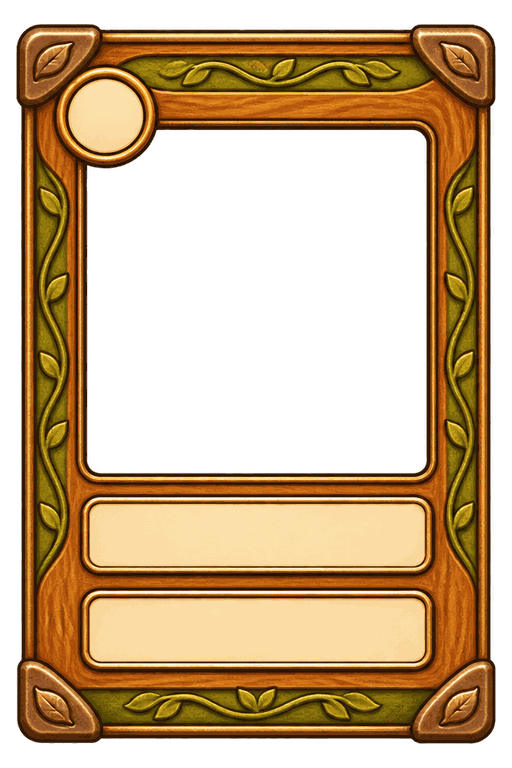
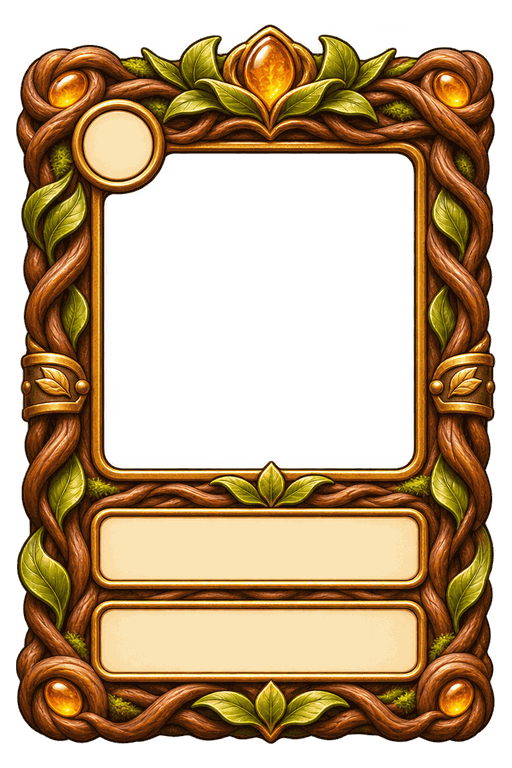
4陣営フレームを固有の立体装飾で作り直す

diff --git a/js/ui/precache.js b/js/ui/precache.js
@@ -1,2 +1,2 @@
-self.CF_CACHE_VERSION="62867b4b758d04bd";
+self.CF_CACHE_VERSION="59a6d4855ade45ad";
 self.CF_ASSETS=["index.html","manifest.webmanifest","css/accessibility.css","css/account.css","css/battle.css","css/beast.css","css/card-base.css","css/card-zoom.css","css/chat.css","css/coin-toss.css","css/components.css","css/deck.css","css/experience.css","css/finishing-art.css","css/fit.css","css/help-guide.css","css/hologram.css","css/home-tabs.css","css/home.css","css/kingdom.css","css/layout.css","css/mana-growth.css","css/materials.css","css/motion.css","css/mp.css","css/polish.css","css/rank-frames.css","css/rank-rewards.css","css/rarity-assets.css","css/rarity-fx.css","css/settings.css","css/stage.css","css/step5.css","css/style.css","css/text-fit.css","css/theme.css","css/tokens.css","css/tutorial.css","css/weather.css","js/game/Card.js","js/game/Castle.js","js/game/Elements.js","js/game/Game.js","js/game/Monster.js","js/game/Player.js","js/game/Road.js","js/game/Setup.js","js/game/Soldier.js","js/game/Stage.js","js/game/Weather.js","js/game/strategies.js","js/game/visibility.js","js/main.js","js/ui/Accessibility.js","js/ui/Account.js","js/ui/AccountPanel.js","js/ui/Animations.js","js/ui/BattleLayout.js","js/ui/Card3D.js","js/ui/CardGL.js","js/ui/CardGuide.js","js/ui/CardInfo.js","js/ui/CardRelief.js","js/ui/CardZoom.js","js/ui/ChatView.js","js/ui/CollectionView.js","js/ui/Cosmetics.js","js/ui/DebugPanel.js","js/ui/DeckEditor.js","js/ui/DeckPreview.js","js/ui/DeckStore.js","js/ui/HandView.js","js/ui/HelpView.js","js/ui/Hologram.js","js/ui/Home.js","js/ui/LocalSetup.js","js/ui/MatchStats.js","js/ui/MaterialSkin.js","js/ui/MissionView.js","js/ui/Music.js","js/ui/OnlineClient.js","js/ui/ProfileView.js","js/ui/ProgressPanel.js","js/ui/Progression.js","js/ui/RankEmblem.js","js/ui/RankRewardsView.js","js/ui/RankedView.js","js/ui/Renderer.js","js/ui/RoomView.js","js/ui/Session.js","js/ui/Settings.js","js/ui/SocialView.js","js/ui/Sound.js","js/ui/Targeting.js","js/ui/Tutorial.js","js/ui/UpgradePanel.js","js/ui/WeatherView.js","js/ui/art.js","js/ui/card-shapes.js","js/ui/cardFrame.js","js/ui/cardView.js","js/ui/config.js","js/ui/factionArt.js","js/ui/handOrder.js","js/ui/look.js","js/ui/motion.js","js/ui/musicScene.js","js/ui/pills.js","js/ui/profileArt.js","js/ui/rarity.js","js/ui/skinArt.js","js/ui/stories.js","js/ui/syncCheck.js","js/ui/text.js","js/vendor/three/BufferGeometryUtils.js","js/vendor/three/GLTFLoader.js","js/vendor/three/three.module.min.js","data/cards.json","data/castles.json","data/classic/cards.json","data/classic/elements.json","data/classic/factions/dragon.json","data/classic/factions/forest.json","data/classic/reactions.json","data/classic/rules.json","data/decks.json","data/factions/cards/demon.json","data/factions/cards/dragon.json","data/factions/cards/forest.json","data/factions/cards/kingdom.json","data/factions/elements.json","data/factions/factions.json","data/factions/reactions.json","data/factions/rules.json","data/gacha.json","data/missions.json","data/modes.json","data/monsters.json","data/profile.json","data/progression.json","data/ranks.json","data/rarities.json","data/rules.json","data/seasons.json","data/shop.json","data/stages.json","data/stamps.json","data/upgrades.json","data/weather.json","assets/asset-manifest.json","assets/bg/board-meadow-compact.png","assets/bg/board-meadow.png","assets/bg/board.png","assets/bg/home-account.png","assets/bg/home-castle.png","assets/bg/home-deck.png","assets/bg/home-gacha.png","assets/bg/home-settings.png","assets/bg/home-sky.png","assets/bg/kingdom-meadow.png","assets/bg/kingdom-valley.png","assets/bg/stage-dark-forest.png","assets/bg/stage-ice.png","assets/bg/stage-lava.png","assets/bg/stage-meadow.png","assets/bg/stage-ruins.png","assets/bg/title-compact.png","assets/bg/title.png","assets/cards/card-absolute-zero.png","assets/cards/card-adapt.png","assets/cards/card-antidote.png","assets/cards/card-apocalypse.png","assets/cards/card-apprentice-archer.png","assets/cards/card-apprentice-mage.png","assets/cards/card-archer.png","assets/cards/card-archmage.png","assets/cards/card-attack-dice.png","assets/cards/card-barrier.png","assets/cards/card-beast-bat.png","assets/cards/card-beast-demon-king.png","assets/cards/card-beast-demon.png","assets/cards/card-beast-dragon.png","assets/cards/card-beast-ghost.png","assets/cards/card-beast-goblin.png","assets/cards/card-beast-golem.png","assets/cards/card-beast-mimic.png","assets/cards/card-beast-skeleton.png","assets/cards/card-beast-slime.png","assets/cards/card-beast-treant.png","assets/cards/card-beast-vampire.png","assets/cards/card-big-shield.png","assets/cards/card-big-thunder.png","assets/cards/card-blessing.png","assets/cards/card-bolt.png","assets/cards/card-buff-dice.png","assets/cards/card-cavalry.png","assets/cards/card-coin-dice.png","assets/cards/card-death-mist.png","assets/cards/card-decoy.png","assets/cards/card-deep-freeze.png","assets/cards/card-desperate-shot.png","assets/cards/card-dragon-knight.png","assets/cards/card-earth-hammer.png","assets/cards/card-earth-king.png","assets/cards/card-earth-spirit.png","assets/cards/card-fac-demon-blood-veil.png","assets/cards/card-fac-demon-bone-shield.png","assets/cards/card-fac-demon-chaos-pulse.png","assets/cards/card-fac-demon-chaos-rod.png","assets/cards/card-fac-demon-curse-mark.png","assets/cards/card-fac-demon-curser.png","assets/cards/card-fac-demon-echo-soul.png","assets/cards/card-fac-demon-frost-blade.png","assets/cards/card-fac-demon-frost-breath.png","assets/cards/card-fac-demon-imp.png","assets/cards/card-fac-demon-poison-mist.png","assets/cards/card-fac-demon-shadow-scythe.png","assets/cards/card-fac-demon-shadow.png","assets/cards/card-fac-demon-skeleton.png","assets/cards/card-fac-demon-soul-shard.png","assets/cards/card-fac-dragon-ash-veil.png","assets/cards/card-fac-dragon-blood-drop.png","assets/cards/card-fac-dragon-bolt.png","assets/cards/card-fac-dragon-dragoon.png","assets/cards/card-fac-dragon-fang-sword.png","assets/cards/card-fac-dragon-fireball.png","assets/cards/card-fac-dragon-flame-breath.png","assets/cards/card-fac-dragon-flame-whelp.png","assets/cards/card-fac-dragon-recruit.png","assets/cards/card-fac-dragon-thunder-spear.png","assets/cards/card-fac-dragon-thunder-whelp.png","assets/cards/card-fac-dragon-whelp-scale.png","assets/cards/card-fac-forest-bark-shield.png","assets/cards/card-fac-forest-beastman.png","assets/cards/card-fac-forest-druid.png","assets/cards/card-fac-forest-earth-spirit.png","assets/cards/card-fac-forest-elf.png","assets/cards/card-fac-forest-fire-bolt.png","assets/cards/card-fac-forest-fire-spirit.png","assets/cards/card-fac-forest-fissure.png","assets/cards/card-fac-forest-gust.png","assets/cards/card-fac-forest-life-drop.png","assets/cards/card-fac-forest-thorn-wall.png","assets/cards/card-fac-forest-water-spirit.png","assets/cards/card-fac-forest-water-stream.png","assets/cards/card-fac-forest-wind-spirit.png","assets/cards/card-fac-king-archer.png","assets/cards/card-fac-king-cavalry.png","assets/cards/card-fac-king-decoy.png","assets/cards/card-fac-king-heal.png","assets/cards/card-fac-king-heavy.png","assets/cards/card-fac-king-holy-ray.png","assets/cards/card-fac-king-holy-sword.png","assets/cards/card-fac-king-infantry.png","assets/cards/card-fac-king-lumina-lance.png","assets/cards/card-fac-king-lumina.png","assets/cards/card-fac-king-minor-heal.png","assets/cards/card-fac-king-priest.png","assets/cards/card-fac-king-purify.png","assets/cards/card-fac-king-shield.png","assets/cards/card-fac-king-wall.png","assets/cards/card-fire-king.png","assets/cards/card-fire-spirit.png","assets/cards/card-fireball.png","assets/cards/card-flame-sword.png","assets/cards/card-frost-breath.png","assets/cards/card-frozen-world.png","assets/cards/card-gate.png","assets/cards/card-giant.png","assets/cards/card-glacier.png","assets/cards/card-god-dice.png","assets/cards/card-god-shield.png","assets/cards/card-god-sword.png","assets/cards/card-goddess.png","assets/cards/card-gold-vein.png","assets/cards/card-great-earth-spirit.png","assets/cards/card-great-fire-spirit.png","assets/cards/card-great-heal.png","assets/cards/card-great-water-spirit.png","assets/cards/card-great-wind-spirit.png","assets/cards/card-heal-dice.png","assets/cards/card-heal.png","assets/cards/card-heavy.png","assets/cards/card-hero.png","assets/cards/card-holy-light.png","assets/cards/card-holy-shield.png","assets/cards/card-holy-sword.png","assets/cards/card-infantry.png","assets/cards/card-inferno.png","assets/cards/card-iron-sword.png","assets/cards/card-judgment.png","assets/cards/card-king-treasure.png","assets/cards/card-knight.png","assets/cards/card-life-steal.png","assets/cards/card-longbowman.png","assets/cards/card-mage.png","assets/cards/card-magic-sword.png","assets/cards/card-mana-crystal.png","assets/cards/card-mana-dice.png","assets/cards/card-mana-drop.png","assets/cards/card-mana-raid.png","assets/cards/card-mana-shard.png","assets/cards/card-mana-spring.png","assets/cards/card-meteor.png","assets/cards/card-minor-heal.png","assets/cards/card-paladin.png","assets/cards/card-plague.png","assets/cards/card-poison-mist.png","assets/cards/card-powder-keg.png","assets/cards/card-raijin.png","assets/cards/card-random-dice.png","assets/cards/card-reflect.png","assets/cards/card-sage.png","assets/cards/card-sandbag.png","assets/cards/card-scout.png","assets/cards/card-shield-dice.png","assets/cards/card-shield.png","assets/cards/card-sky-archer.png","assets/cards/card-sniper.png","assets/cards/card-sorcerer.png","assets/cards/card-spearman.png","assets/cards/card-starfall.png","assets/cards/card-steel-shield.png","assets/cards/card-stone-wall.png","assets/cards/card-thief.png","assets/cards/card-thunder.png","assets/cards/card-toxic-rain.png","assets/cards/card-treasure.png","assets/cards/card-venom.png","assets/cards/card-wall.png","assets/cards/card-water-king.png","assets/cards/card-water-spear.png","assets/cards/card-water-spirit.png","assets/cards/card-weather-call.png","assets/cards/card-wind-bow.png","assets/cards/card-wind-king.png","assets/cards/card-wind-spirit.png","assets/cards/card-world-tree-dew.png","assets/cards/frame-beast.png","assets/cards/frame-common.png","assets/cards/frame-epic.png","assets/cards/frame-faction-demon.png","assets/cards/frame-faction-dragon.png","assets/cards/frame-faction-forest.png","assets/cards/frame-faction-kingdom.png","assets/cards/frame-legendary.png","assets/cards/frame-rare.png","assets/cards/frame-skin-bronze.png","assets/cards/frame-skin-champion.png","assets/cards/frame-skin-diamond.png","assets/cards/frame-skin-gold.png","assets/cards/frame-skin-iron.png","assets/cards/frame-skin-master.png","assets/cards/frame-skin-platinum.png","assets/cards/frame-skin-silver.png","assets/cards/frame-special.png","assets/cards/frame-uncommon.png","assets/cards/relief/frame-beast-raised.png","assets/cards/relief/frame-beast-relief.png","assets/cards/relief/frame-common-raised.png","assets/cards/relief/frame-common-relief.png","assets/cards/relief/frame-epic-raised.png","assets/cards/relief/frame-epic-relief.png","assets/cards/relief/frame-legendary-raised.png","assets/cards/relief/frame-legendary-relief.png","assets/cards/relief/frame-rare-raised.png","assets/cards/relief/frame-rare-relief.png","assets/cards/relief/frame-skin-bronze-raised.png","assets/cards/relief/frame-skin-bronze-relief.png","assets/cards/relief/frame-skin-champion-raised.png","assets/cards/relief/frame-skin-champion-relief.png","assets/cards/relief/frame-skin-diamond-raised.png","assets/cards/relief/frame-skin-diamond-relief.png","assets/cards/relief/frame-skin-gold-raised.png","assets/cards/relief/frame-skin-gold-relief.png","assets/cards/relief/frame-skin-iron-raised.png","assets/cards/relief/frame-skin-iron-relief.png","assets/cards/relief/frame-skin-master-raised.png","assets/cards/relief/frame-skin-master-relief.png","assets/cards/relief/frame-skin-platinum-raised.png","assets/cards/relief/frame-skin-platinum-relief.png","assets/cards/relief/frame-skin-silver-raised.png","assets/cards/relief/frame-skin-silver-relief.png","assets/cards/relief/frame-special-raised.png","assets/cards/relief/frame-special-relief.png","assets/cards/relief/frame-uncommon-raised.png","assets/cards/relief/frame-uncommon-relief.png","assets/cards/window-beast.png","assets/cards/window-common.png","assets/cards/window-epic.png","assets/cards/window-legendary.png","assets/cards/window-rare.png","assets/cards/window-special.png","assets/cards/window-uncommon.png","assets/castles/barracks-blue-damaged-1.png","assets/castles/barracks-blue-damaged-2.png","assets/castles/barracks-blue-damaged-3.png","assets/castles/barracks-blue.png","assets/castles/barracks-orange-damaged-1.png","assets/castles/barracks-orange-damaged-2.png","assets/castles/barracks-orange-damaged-3.png","assets/castles/barracks-orange.png","assets/castles/castle-blue-damaged-1.png","assets/castles/castle-blue-damaged-2.png","assets/castles/castle-blue-damaged-3.png","assets/castles/castle-blue-ruined.png","assets/castles/castle-blue.png","assets/castles/castle-orange-damaged-1.png","assets/castles/castle-orange-damaged-2.png","assets/castles/castle-orange-damaged-3.png","assets/castles/castle-orange-ruined.png","assets/castles/castle-orange.png","assets/castles/fortress-blue-damaged-1.png","assets/castles/fortress-blue-damaged-2.png","assets/castles/fortress-blue-damaged-3.png","assets/castles/fortress-blue.png","assets/castles/fortress-orange-damaged-1.png","assets/castles/fortress-orange-damaged-2.png","assets/castles/fortress-orange-damaged-3.png","assets/castles/fortress-orange.png","assets/castles/tower-blue-damaged-1.png","assets/castles/tower-blue-damaged-2.png","assets/castles/tower-blue-damaged-3.png","assets/castles/tower-blue.png","assets/castles/tower-orange-damaged-1.png","assets/castles/tower-orange-damaged-2.png","assets/castles/tower-orange-damaged-3.png","assets/castles/tower-orange.png","assets/frames/edge-faction-demon.png","assets/frames/edge-faction-dragon.png","assets/frames/edge-faction-forest.png","assets/frames/edge-faction-kingdom.png","assets/frames/factions.json","assets/frames/rank-frame-bronze.png","assets/frames/rank-frame-champion.png","assets/frames/rank-frame-diamond.png","assets/frames/rank-frame-gold.png","assets/frames/rank-frame-iron.png","assets/frames/rank-frame-master.png","assets/frames/rank-frame-platinum.png","assets/frames/rank-frame-silver.png","assets/fx/dust.png","assets/fx/evolve-1.png","assets/fx/evolve-2.png","assets/fx/evolve-3.png","assets/fx/explosion.png","assets/fx/fireball.png","assets/fx/fusion.png","assets/fx/heal.png","assets/fx/ice.png","assets/fx/lightning.png","assets/fx/lucky-reward.png","assets/fx/poison.png","assets/models/card-beast.glb","assets/models/card-common.glb","assets/models/card-epic.glb","assets/models/card-legendary.glb","assets/models/card-rare.glb","assets/models/card-skin-champion.glb","assets/models/card-skin-diamond.glb","assets/models/card-skin-master.glb","assets/models/card-skin-platinum.glb","assets/models/card-slab.glb","assets/models/card-special.glb","assets/models/card-uncommon.glb","assets/models/rank-emblem-champion.glb","assets/models/rank-emblem-diamond.glb","assets/models/rank-emblem-master.glb","assets/models/rank-emblem-platinum.glb","assets/profiles/archer.png","assets/profiles/hero.png","assets/profiles/infantry.png","assets/profiles/knight.png","assets/profiles/mage.png","assets/profiles/spearman.png","assets/ranks/rank-bronze.png","assets/ranks/rank-champion.png","assets/ranks/rank-diamond.png","assets/ranks/rank-gold.png","assets/ranks/rank-iron.png","assets/ranks/rank-master.png","assets/ranks/rank-platinum.png","assets/ranks/rank-silver.png","assets/skins/back-crimson-raised.png","assets/skins/back-crimson.png","assets/skins/back-faction-demon.png","assets/skins/back-faction-dragon.png","assets/skins/back-faction-forest.png","assets/skins/back-faction-kingdom.png","assets/skins/back-forest-raised.png","assets/skins/back-forest.png","assets/skins/back-gold-raised.png","assets/skins/back-gold.png","assets/skins/back-rank-bronze-raised.png","assets/skins/back-rank-bronze-relief.png","assets/skins/back-rank-bronze.png","assets/skins/back-rank-champion-raised.png","assets/skins/back-rank-champion-relief.png","assets/skins/back-rank-champion.png","assets/skins/back-rank-diamond-raised.png","assets/skins/back-rank-diamond-relief.png","assets/skins/back-rank-diamond.png","assets/skins/back-rank-gold-raised.png","assets/skins/back-rank-gold-relief.png","assets/skins/back-rank-gold.png","assets/skins/back-rank-iron-raised.png","assets/skins/back-rank-iron-relief.png","assets/skins/back-rank-iron.png","assets/skins/back-rank-master-raised.png","assets/skins/back-rank-master-relief.png","assets/skins/back-rank-master.png","assets/skins/back-rank-platinum-raised.png","assets/skins/back-rank-platinum-relief.png","assets/skins/back-rank-platinum.png","assets/skins/back-rank-silver-raised.png","assets/skins/back-rank-silver-relief.png","assets/skins/back-rank-silver.png","assets/skins/back-royal-raised.png","assets/skins/back-royal.png","assets/skins/castle-crimson.png","assets/skins/castle-forest.png","assets/skins/castle-frost.png","assets/skins/castle-gold.png","assets/skins/castle-shadow.png","assets/skins/fx-azure.png","assets/skins/fx-emerald.png","assets/skins/fx-gold.png","assets/skins/fx-violet.png","assets/skins/icon-dragon-knight.png","assets/skins/icon-giant.png","assets/skins/icon-paladin.png","assets/skins/icon-sage.png","assets/skins/icon-scout.png","assets/skins/icon-sniper.png","assets/skins/title-hunter.png","assets/skins/title-legend.png","assets/skins/title-lucky.png","assets/skins/title-rookie.png","assets/skins/title-wall.png","assets/skins/unit-crimson.png","assets/skins/unit-forest.png","assets/skins/unit-frost.png","assets/skins/unit-gold.png","assets/skins/unit-royal.png","assets/skins/unit-shadow.png","assets/skins/win-aurora.png","assets/skins/win-gold.png","assets/skins/win-sakura.png","assets/ui/app-icon-192.png","assets/ui/app-icon-512.png","assets/ui/app-icon-maskable-512.png","assets/ui/apple-touch-icon.png","assets/ui/banner-win.png","assets/ui/btn-blue.png","assets/ui/btn-cream.png","assets/ui/btn-green.png","assets/ui/btn-orange.png","assets/ui/btn-red.png","assets/ui/btn-round.png","assets/ui/button-end-turn.png","assets/ui/card-back.png","assets/ui/home/casual.png","assets/ui/home/catalog.png","assets/ui/home/deck.png","assets/ui/home/friend.png","assets/ui/home/gacha.png","assets/ui/home/mission.png","assets/ui/home/profile.png","assets/ui/home/rank.png","assets/ui/home/ranking.png","assets/ui/home/settings.png","assets/ui/home/shop.png","assets/ui/home/skin.png","assets/ui/icon-coin.png","assets/ui/icon-earth.png","assets/ui/icon-fire.png","assets/ui/icon-heart.png","assets/ui/icon-help.png","assets/ui/icon-kind-defense.png","assets/ui/icon-kind-soldier.png","assets/ui/icon-kind-spell.png","assets/ui/icon-kind-weapon.png","assets/ui/icon-kind-wild.png","assets/ui/icon-luck.png","assets/ui/icon-mode-local.png","assets/ui/icon-mode-online.png","assets/ui/icon-mode-solo.png","assets/ui/icon-mp.png","assets/ui/icon-rarity-common.png","assets/ui/icon-rarity-epic.png","assets/ui/icon-rarity-legendary.png","assets/ui/icon-rarity-rare.png","assets/ui/icon-rarity-special.png","assets/ui/icon-rarity-uncommon.png","assets/ui/icon-water.png","assets/ui/icon-wind.png","assets/ui/kingdom-crest.png","assets/ui/kingdom-parchment.png","assets/ui/kingdom-platform.png","assets/ui/kingdom-primary.png","assets/ui/kingdom-secondary.png","assets/ui/kingdom-wood.png","assets/ui/logo.png","assets/ui/natural/danger-40-left.png","assets/ui/natural/danger-40-middle.png","assets/ui/natural/danger-40-right.png","assets/ui/natural/danger-44-left.png","assets/ui/natural/danger-44-middle.png","assets/ui/natural/danger-44-right.png","assets/ui/natural/danger-72-left.png","assets/ui/natural/danger-72-middle.png","assets/ui/natural/danger-72-right.png","assets/ui/natural/frame.png","assets/ui/natural/leather-tile.png","assets/ui/natural/neutral-40-left.png","assets/ui/natural/neutral-40-middle.png","assets/ui/natural/neutral-40-right.png","assets/ui/natural/neutral-44-left.png","assets/ui/natural/neutral-44-middle.png","assets/ui/natural/neutral-44-right.png","assets/ui/natural/neutral-72-left.png","assets/ui/natural/neutral-72-middle.png","assets/ui/natural/neutral-72-right.png","assets/ui/natural/neutral-wide-full.png","assets/ui/natural/oak-tile.png","assets/ui/natural/paper-tile.png","assets/ui/natural/primary-40-left.png","assets/ui/natural/primary-40-middle.png","assets/ui/natural/primary-40-right.png","assets/ui/natural/primary-44-left.png","assets/ui/natural/primary-44-middle.png","assets/ui/natural/primary-44-right.png","assets/ui/natural/primary-72-left.png","assets/ui/natural/primary-72-middle.png","assets/ui/natural/primary-72-right.png","assets/ui/natural/primary-wide-full.png","assets/ui/natural/round-neutral.png","assets/ui/natural/round-selected.png","assets/ui/natural/selected-40-left.png","assets/ui/natural/selected-40-middle.png","assets/ui/natural/selected-40-right.png","assets/ui/natural/selected-44-left.png","assets/ui/natural/selected-44-middle.png","assets/ui/natural/selected-44-right.png","assets/ui/natural/selected-72-left.png","assets/ui/natural/selected-72-middle.png","assets/ui/natural/selected-72-right.png","assets/ui/panel-parchment.png","assets/ui/result-defeat.png","assets/ui/result-victory.png","assets/ui/sign-hp.png","assets/ui/stamps/again.png","assets/ui/stamps/gg.png","assets/ui/stamps/go.png","assets/ui/stamps/hello.png","assets/ui/stamps/nice.png","assets/ui/stamps/ouch.png","assets/ui/stamps/scared.png","assets/ui/stamps/smug.png","assets/ui/stamps/sorry.png","assets/ui/stamps/thanks.png","assets/ui/stamps/think.png","assets/ui/stamps/yay.png","assets/ui/tap-plate.png","assets/ui/title-castle-blue.png","assets/ui/title-castle-orange.png","assets/ui/title-infantry-orange.png","assets/ui/title-knight-blue.png","assets/ui/weather-coin-rain.png","assets/ui/weather-fog.png","assets/ui/weather-heavy-rain.png","assets/ui/weather-rain.png","assets/ui/weather-sandstorm.png","assets/ui/weather-storm.png","assets/ui/weather-sunny.png","assets/units/apprentice-archer-blue.png","assets/units/apprentice-archer-orange.png","assets/units/apprentice-mage-blue.png","assets/units/apprentice-mage-orange.png","assets/units/archer-blue.png","assets/units/archer-orange.png","assets/units/archmage-blue.png","assets/units/archmage-orange.png","assets/units/cavalry-blue.png","assets/units/cavalry-orange.png","assets/units/dragon-knight-blue.png","assets/units/dragon-knight-orange.png","assets/units/earth-spirit.png","assets/units/fire-spirit.png","assets/units/giant-blue.png","assets/units/giant-orange.png","assets/units/great-earth-spirit.png","assets/units/great-fire-spirit.png","assets/units/great-water-spirit.png","assets/units/great-wind-spirit.png","assets/units/heavy-blue.png","assets/units/heavy-orange.png","assets/units/hero-blue.png","assets/units/hero-orange.png","assets/units/infantry-blue.png","assets/units/infantry-orange.png","assets/units/knight-blue.png","assets/units/knight-orange.png","assets/units/longbowman-blue.png","assets/units/longbowman-orange.png","assets/units/mage-blue.png","assets/units/mage-orange.png","assets/units/monster-bat.png","assets/units/monster-demon-king.png","assets/units/monster-demon.png","assets/units/monster-dragon.png","assets/units/monster-ghost.png","assets/units/monster-goblin.png","assets/units/monster-golem.png","assets/units/monster-mimic.png","assets/units/monster-skeleton.png","assets/units/monster-slime.png","assets/units/monster-treant.png","assets/units/monster-vampire.png","assets/units/paladin-blue.png","assets/units/paladin-orange.png","assets/units/sage-blue.png","assets/units/sage-orange.png","assets/units/scout-blue.png","assets/units/scout-orange.png","assets/units/sky-archer-blue.png","assets/units/sky-archer-orange.png","assets/units/sniper-blue.png","assets/units/sniper-orange.png","assets/units/sorcerer-blue.png","assets/units/sorcerer-orange.png","assets/units/spearman-blue.png","assets/units/spearman-orange.png","assets/units/water-spirit.png","assets/units/wind-spirit.png"];

diff --git a/assets/review/faction-frames/index.html b/assets/review/faction-frames/index.html
@@ -3,7 +3,7 @@
 <h1>4陣営の表・側面・裏</h1><p>同じ縮尺で表示。共通外形64×96mm、本体厚3.52mm。<a href="construction.svg">寸法・接続ガイド</a> ／ <a href="README.md">Blender向け仕様</a></p><main></main>
 <script type="module">
 const root=new URL('../../../',location.href);const d=await(await fetch(new URL('assets/frames/factions.json',root))).json();
-const labels={kingdom:'王国：銀と青',forest:'森の同盟：木と緑',demon:'魔族軍：黒鉄と紫',dragon:'竜族帝国：銅と赤'};
+const labels={kingdom:'王国：銀翼と王冠',forest:'森の同盟：編み根と琥珀',demon:'魔族軍：黒鉄と骨',dragon:'竜族帝国：鱗と爪'};
 for(const id of ['kingdom','forest','demon','dragon']){const f=d.factions[id],a=document.createElement('article');a.innerHTML=`<h2>${labels[id]}</h2><div class="views"><img class="face" alt="表" src="${new URL('assets/'+f.views.front,root)}"><img class="edge" alt="右側面" src="${new URL('assets/'+f.views.edge,root)}"><img class="face" alt="裏" src="${new URL('assets/'+f.views.back,root)}"></div><div class="labels"><span>表</span><span>右側面</span><span>裏</span></div>`;document.querySelector('main').append(a)}
 await Promise.all([...document.images].map(i=>i.decode()));document.documentElement.dataset.ready='true';
 </script></html>

diff --git a/assets/review/faction-frames/README.md b/assets/review/faction-frames/README.md
@@ -1,6 +1,6 @@
 # 4陣営カードの表・側面・裏
 
-既存の `frame-common.png` / `frame-rare.png` を絵柄・文字欄の参考にし、4陣営とも表・側面・裏を1枚の三面図として生成。外形から大きな飾りをはみ出させず、縁材と四隅の留め具が回り込む構造にした。王国は銀と青、森は木と緑・青銅、魔族は黒鉄と紫・骨、竜は銅と赤・浅い鱗模様。キャラクターの絵は入れない。
+既存の `frame-legendary.png` の立体感・磨かれた素材・装飾密度を参考に、4陣営の表・側面・裏を同時に生成。王国は銀翼・王冠・青い宝石、森は編み根・琥珀・生命樹、魔族は黒鉄・骨の角・紫水晶、竜は重なる鱗・爪・紅玉。表の枠自体に陣営固有の造形を持たせ、裏面にも大きなレリーフを置いた。キャラクターの絵は入れない。
 
 ## ファイル
 
@@ -17,10 +17,10 @@
 数値と共通外形は `factions.json` / `construction.svg` を正とする。幅64mm・高さ96mm・本体厚3.52mm（既存UIの厚み/幅0.055）、角半径3mm、面取り0.6mm。実寸を変える場合は全寸法を同じ倍率で変更する。
 
 1. **表裏共通の板を1枚作る。** 表用と裏用の別々の外周メッシュを画像の輪郭から作らない。原画には生成上の小さな差があるため、共通の角丸長方形で揃える。
-2. **縁を連続した一周の構造にする。** Z=-1.76〜-1.36mmが裏の金属レール、-1.36〜+1.36mmが芯材、+1.36〜+1.76mmが表の金属レール。芯材は王国・森が木、魔族が紫、竜が赤。側面には細かい図柄を渡さず、材料の帯を連続させる。
-3. **四隅の留め具を表裏共有の部品にする。** 中心はX=±27mm、Y=±43mm、10×10mm、Z=-2.1〜+2.1mm。角の丸みに沿わせる。正面だけの薄い金具を別々に貼る構造にしない。
-4. **表の絵・名前・説明を凹ませる。** PNGの透明な絵窓は合成用。実物を表裏へ貫通させず、絵の受け面をZ=+1.0mmに置く。安全な共通の絵領域は左11mm・上15.5mm・42×42mm。名前と説明はJSONのfrontInsetsを参照。
-5. **模様は面の内側で止める。** 表の紋章・骨のインレイ・葉・鱗は+0.9mm以内、裏の中央紋章は裏面から0.8mm以内の浅いレリーフを目安にする。既存の陰影をそのまま立体の段差に変換しない。
+2. **縁を連続した一周の構造にする。** Z=-1.76〜-1.36mmが裏の金属レール、-1.36〜+1.36mmが芯材、+1.36〜+1.76mmが表の金属レール。芯材は王国が青いエナメル、森が編み根と木、魔族が紫の黒鉄、竜が赤い鱗。表裏の装飾は共通レールで受け、側面の芯材へ細かな模様の位相を無理に繋がない。
+3. **四隅の留め具を表裏共有の部品にする。** 中心はX=±27mm、Y=±43mm、10×10mm、Z=-2.1〜+2.1mm。角の丸みに沿わせる。正面だけの薄い金具を別々に貼る構造にしない。これは部品の基準位置・取り付け範囲で、四角い金具の外形指定ではない。王国は宝石金具、森は琥珀を包む根、魔族は黒鉄金具、竜は爪の形へ造形する。王国の中央宝石と森の中央の帯は、Y=0の左右共通カラーとして追加する。
+4. **表の絵・名前・説明を凹ませる。** PNGの透明な絵窓は合成用。実物を表裏へ貫通させず、絵の受け面をZ=+1.0mmに置く。絵の受け面は左11mm・上15.5mm・42×42mm。これは枠の下まで伸ばす絵の台座で、全域の可視範囲ではない。MPの丸い欄が左上に重なるため、主役の安全領域は左14.933mm・上23.333mm・34.133×34.133mm（全4陣営で透明を確認した中央256px四方）。名前と説明はJSONのfrontInsetsを参照。
+5. **模様は面の内側で止める。** 表の王冠・骨の角・葉・鱗は+0.9mm以内、裏の中央紋章は裏面から0.8mm以内の浅いレリーフを目安にする。既存の陰影をそのまま立体の段差に変換しない。
 
 ## 表裏の向きと継ぎ目
 
@@ -30,6 +30,6 @@ Blender座標はXが横、Yが上、Zが厚み。表を+Z側、裏を-Z側とす
 
 ## 原画と完成テクスチャの扱い
 
-PNGは**造形・配色を決めるデザイン原画**。継ぎ目なくベイク済みのUVテクスチャや、高さ・法線マップではない。正面と裏面の窓や装飾にはわずかな差があるので、共通の板・縁・留め具を先に作り、原画を参照して模様を載せ、最後にUV展開・ベイクする。側面を単純な連続材にしたため、表裏で細かい模様の位相を繋ぐ必要はない。
+PNGは**造形・配色を決めるデザイン原画**。継ぎ目なくベイク済みのUVテクスチャや、高さ・法線マップではない。正面と裏面の窓や装飾にはわずかな差があるので、共通の板・縁・留め具を先に作り、原画を参照して模様を載せ、最後にUV展開・ベイクする。根・羽・鱗・骨は表裏の共通レールから立ち上げる。角や中央カラーのように側面を跨ぐ部品は、表・側面・裏を別々に作らず1個の部品として回り込ませる。各陣営の `modelingNotes` も参照する。
 
-モード全体のUI接続とBlenderモデルの実制作は、この画像セットには含めていない。画像の使用先を勝手に既存モードへ適用していない。
+この画像セットはBlenderでの造形用資料。ゲーム画面への接続とBlenderモデル本体は別工程。
